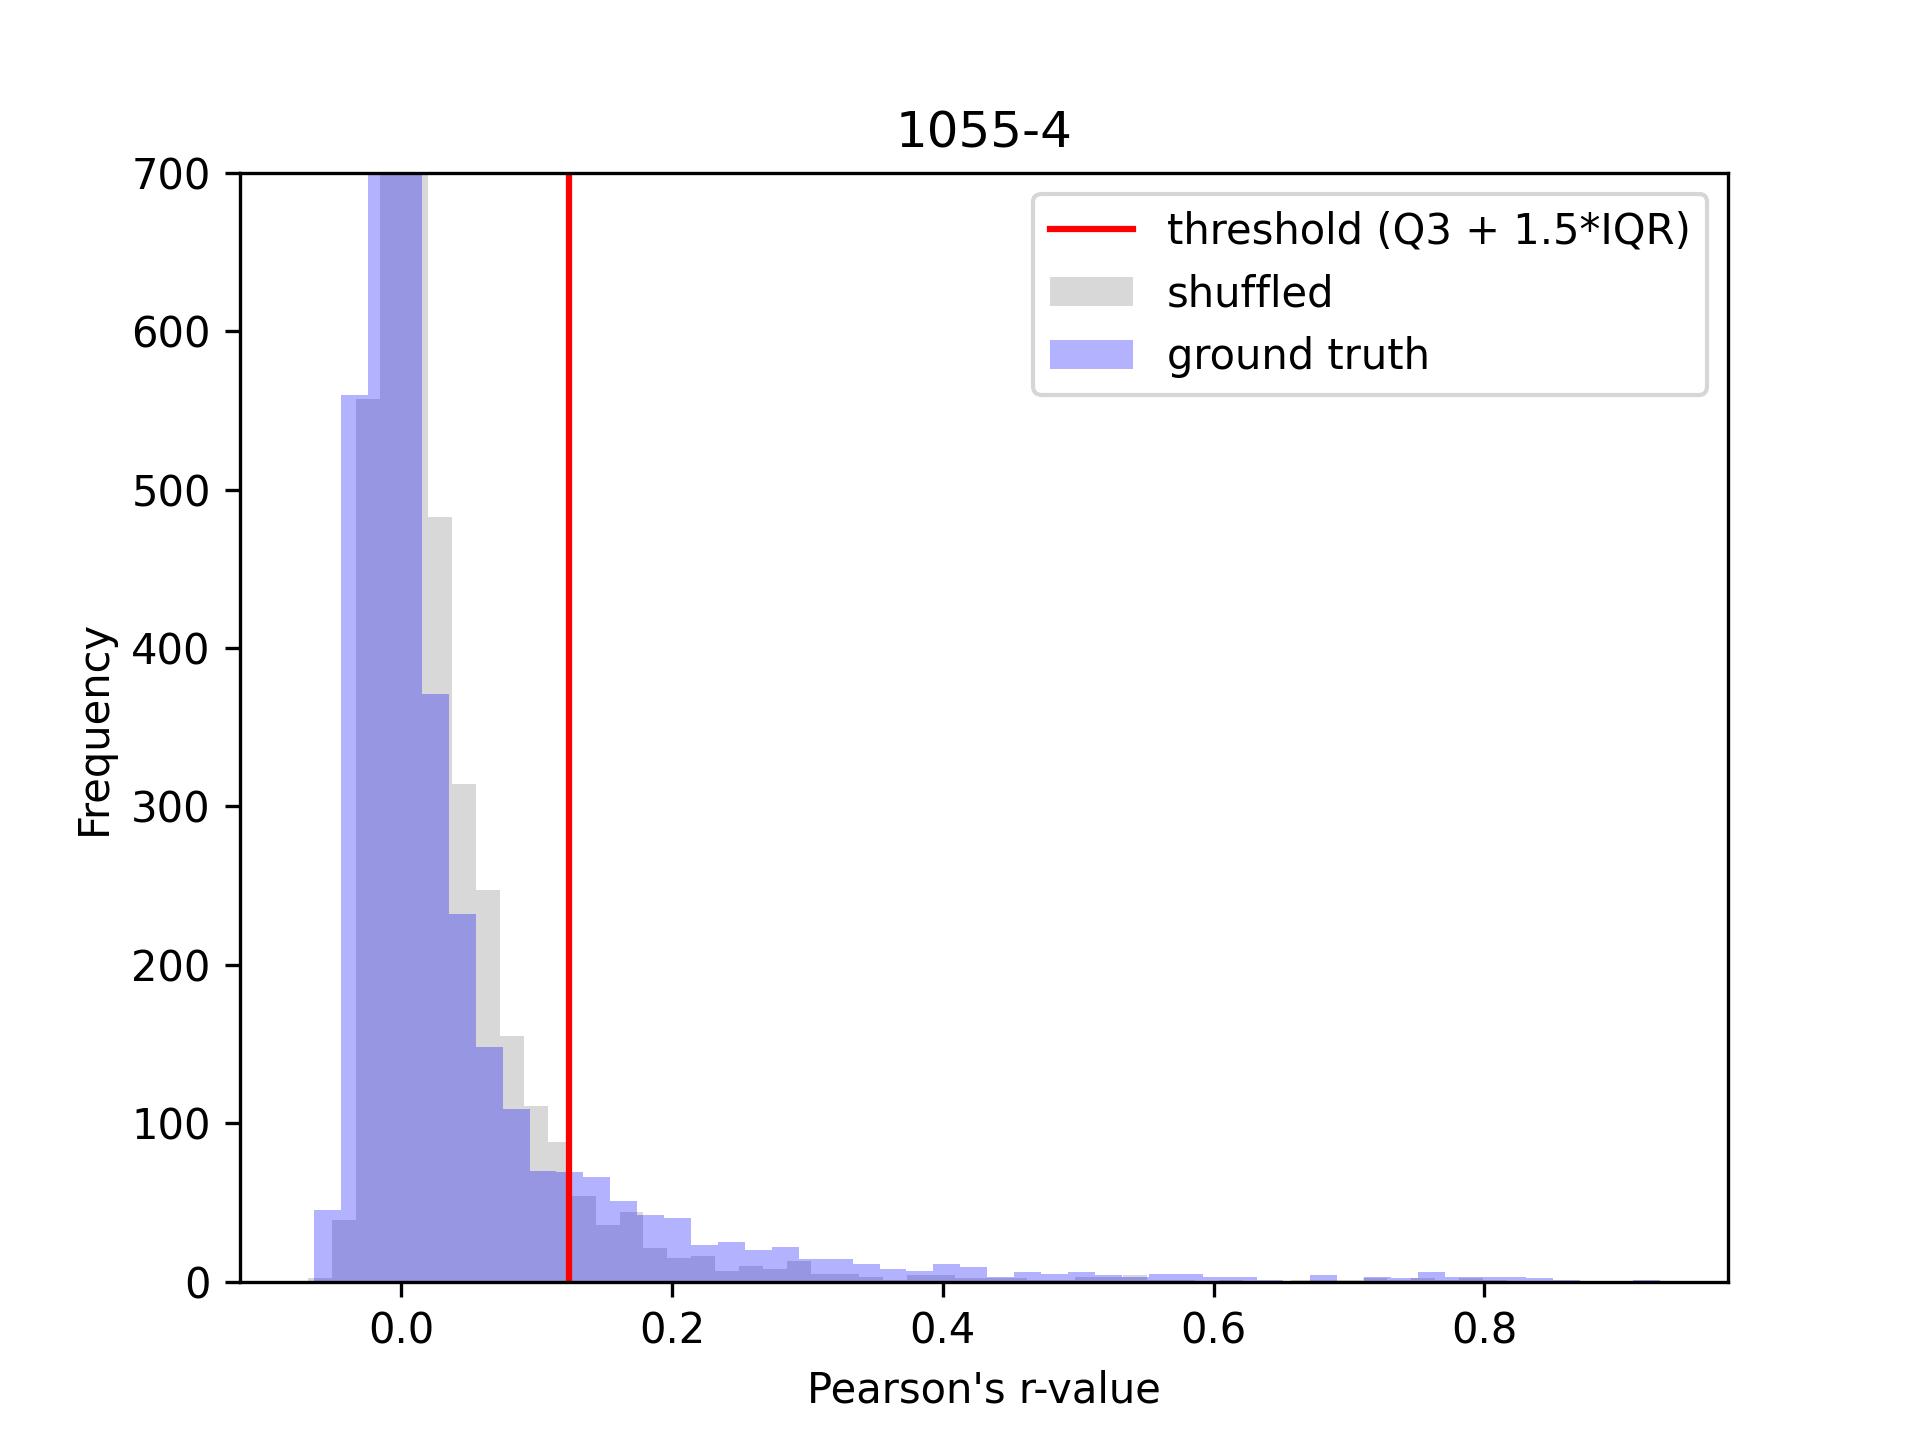
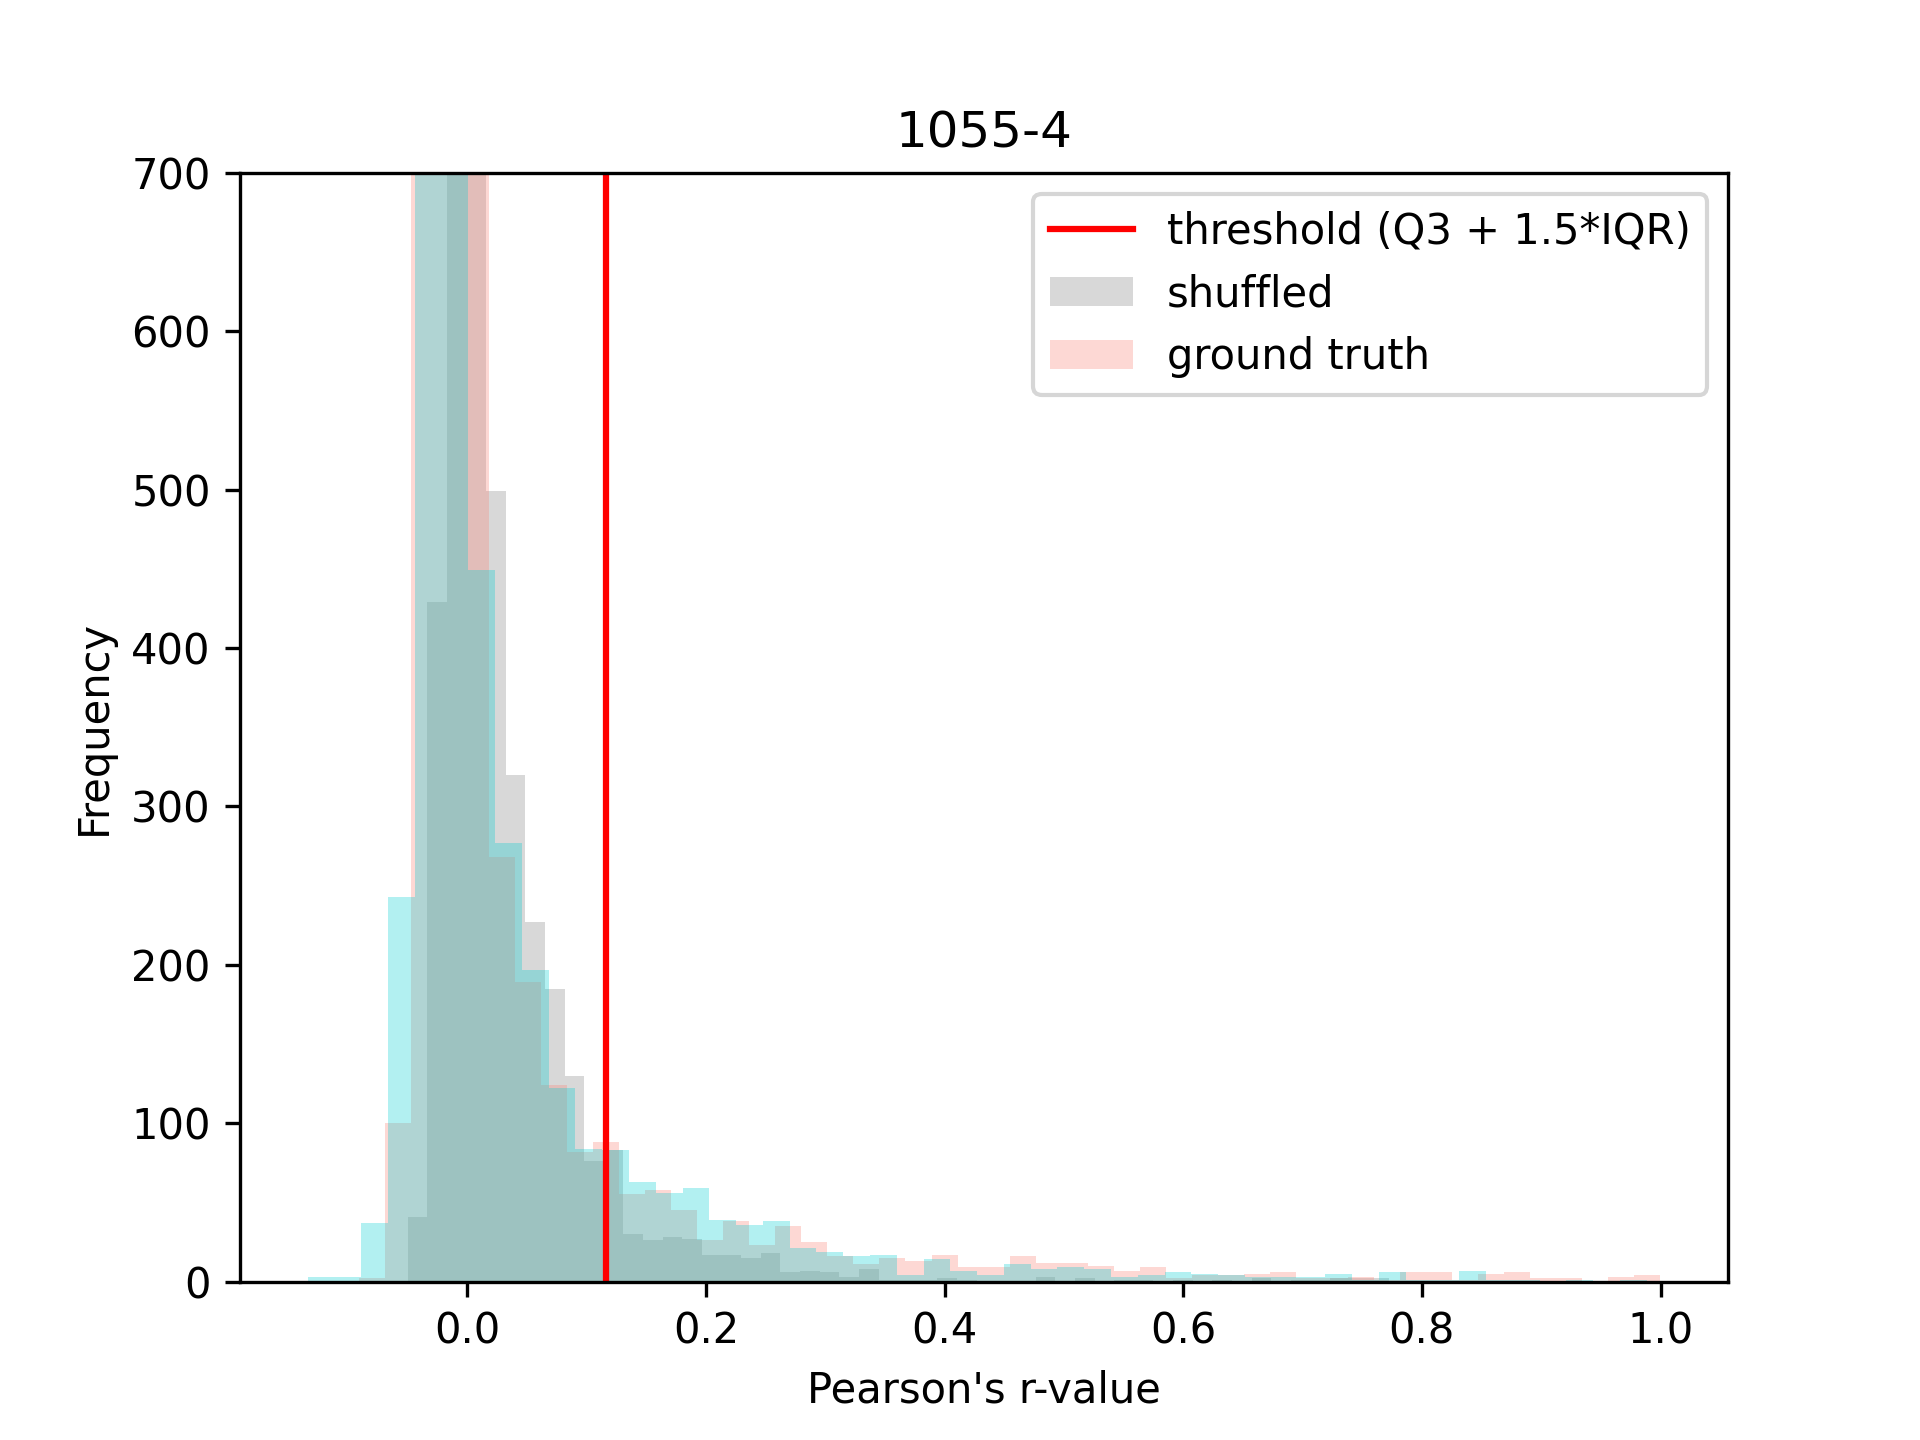
Updated randomized timeseries analyses.

Changed region(s): [[0.1562, 0.0938, 0.8125, 0.9375], [0.5312, 0.2188, 0.5938, 0.2812], [0.8438, 0.875, 0.875, 0.9375]]

diff --git a/analyses/benchmarking/random_networks/randomize_by_event.py b/analyses/benchmarking/random_networks/randomize_by_event.py
@@ -111,20 +111,42 @@ def generate_event_segmented(data: list, event_data: list) -> np.ndarray:
 
 
 #%% Demonstrate binned randomization --rerun
-file_str = '1055-4'
-data = np.genfromtxt(path_to_data + f'/{file_str}_D1_smoothed_calcium_traces.csv', delimiter=',')
-event_data = np.genfromtxt(path_to_data + f'/{file_str}_Day1_eventTrace.csv', delimiter=',')
+file_str = '2-1'
+day = 'D9'
+if day == 'D1':
+    event_day = 'Day1'
+else:
+    event_day = 'Day9'
+data = np.genfromtxt(path_to_data + f'/{file_str}_{day}_smoothed_calcium_traces.csv', delimiter=',')
+event_data = np.genfromtxt(path_to_data + f'/{file_str}_{event_day}_eventTrace.csv', delimiter=',')
 random_event_binned_data = generate_event_segmented(data=data.copy(), event_data=event_data)
 
+
+plt.plot(event_data[0,:], event_data[1,:], '.')
 # Check if context A only random networks are different than context B only, and how they compare to
-plt.plot(random_event_binned_data[0, :], random_event_binned_data[1,:], alpha=0.5)
-plt.plot(data[0, :], data[1,:], 'r', alpha = 0.5)
+plt.plot(random_event_binned_data[0, :], random_event_binned_data[1,:], color='grey', alpha=0.5)
+plt.plot(data[0, 0:1800], data[1,0:1800], 'darkturquoise', alpha = 0.5)
+plt.plot(data[0, 1800:3600], data[1,1800:3600], 'salmon', alpha = 0.5)
 plt.title('Binned random data')
 plt.show()
+
 
 random_nng = nng(random_event_binned_data)
 x = random_nng.pearsons_correlation_matrix
 np.fill_diagonal(x, 0)
+
+#%%  Generate multiple random
+# store_flattened_random = list(np.tril(x).flatten())
+# for i in range(1):
+#     random_event_binned_data = generate_event_segmented(data=data.copy(), event_data=event_data)
+#     random_nng = nng(random_event_binned_data)
+#     x = random_nng.pearsons_correlation_matrix
+#     np.fill_diagonal(x, 0)
+#     store_flattened_random = store_flattened_random + list(np.tril(x).flatten())
+# x = store_flattened_random
+# x = np.array(x)
+
+#%% Compute percentiles
 Q1 = np.percentile(x, 25, interpolation='midpoint')
 Q3 = np.percentile(x, 75, interpolation='midpoint')
 print(Q3)
@@ -132,23 +154,25 @@ IQR = Q3 - Q1
 outlier_threshold = Q3 + 1.5 * IQR
 print(outlier_threshold)
 
-random_nng = nng(random_event_binned_data)
-x = random_nng.pearsons_correlation_matrix
-np.fill_diagonal(x, 0)
-
-ground_truth_nng = nng(data)
-y = ground_truth_nng.pearsons_correlation_matrix
+ground_truth_nng_B = nng(data[:, 0:1800])
+y = ground_truth_nng_B.pearsons_correlation_matrix
 np.fill_diagonal(y, 0)
 
+ground_truth_nng_A = nng(data[:, 1800:3600])
+z = ground_truth_nng_A.pearsons_correlation_matrix
+np.fill_diagonal(z, 0)
+
+#%%
 plt.ylim(0,700)
 plt.hist(np.tril(x).flatten(), bins=50, color='grey', alpha=0.3)
-plt.hist(np.tril(y).flatten(), bins=50, color='blue', alpha=0.3)
+plt.hist(np.tril(y).flatten(), bins=50, color='salmon', alpha=0.3)
+plt.hist(np.tril(z).flatten(), bins=50, color='darkturquoise', alpha=0.3)
 plt.axvline(x = outlier_threshold, color = 'red')
 plt.legend(['threshold (Q3 + 1.5*IQR)', 'shuffled', 'ground truth',])
 plt.xlabel("Pearson's r-value")
 plt.ylabel("Frequency")
 plt.title(file_str)
-plt.savefig(EXPORT_PATH + f'{file_str}_D1_threshold_histogram_binned_event.png', dpi=300)
+plt.savefig(EXPORT_PATH + f'{file_str}_{day}_threshold_histogram_binned_event.png', dpi=300)
 plt.show()
 
 from scipy import stats
@@ -158,3 +182,10 @@ print(f"KS-statistic: {stats.ks_2samp(random_vals, data_vals)}")
 
 print(f"The threshold is: {outlier_threshold}")
 
+
+
+
+#%% Plot event trace to visualize
+plt.plot(random_event_binned_data[0, :], random_event_binned_data[1,:], color='grey', alpha=0.5)
+plt.plot(data[0, 0:1800], data[1,0:1800], 'darkturquoise', alpha = 0.5)
+plt.plot(data[0, 1800:3600], data[1,1800:3600], 'salmon', alpha = 0.5)
